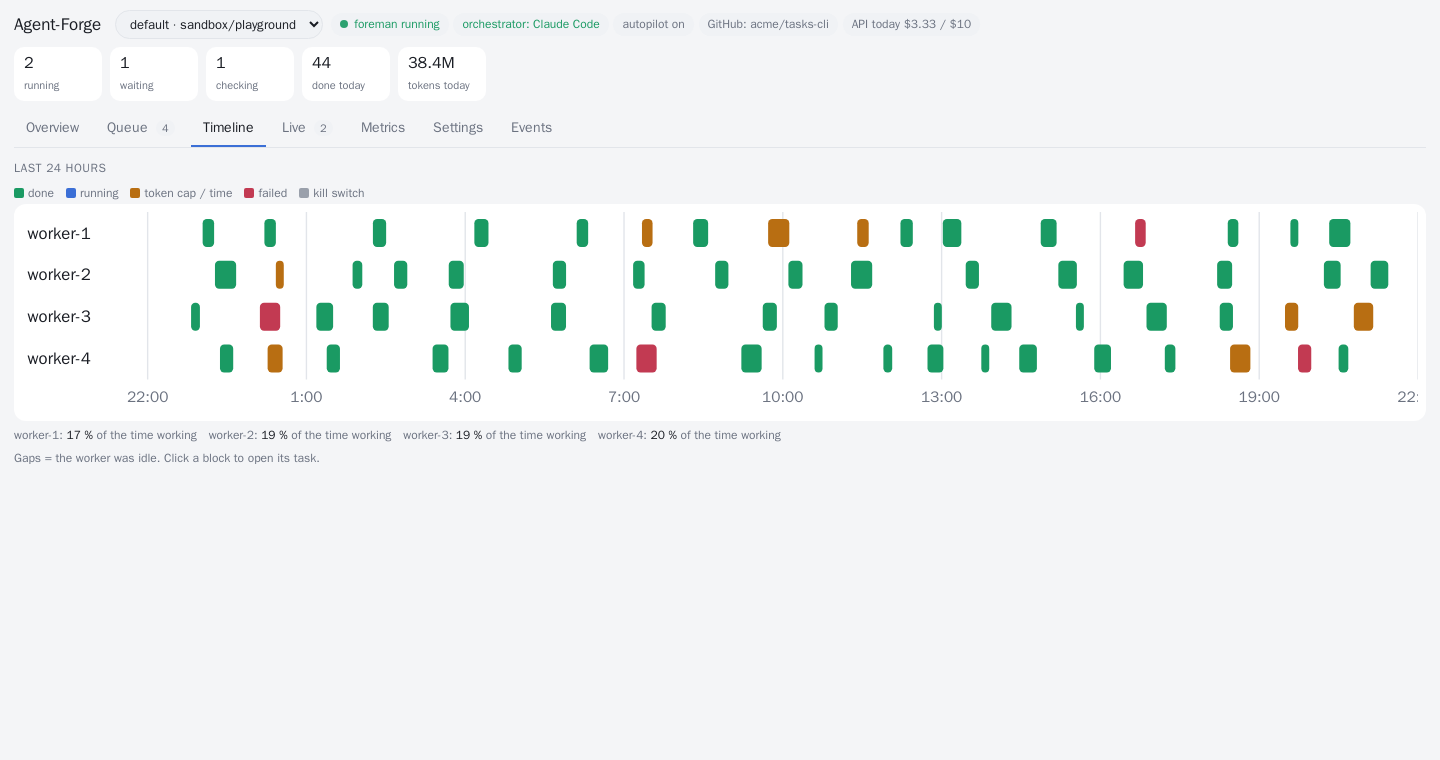
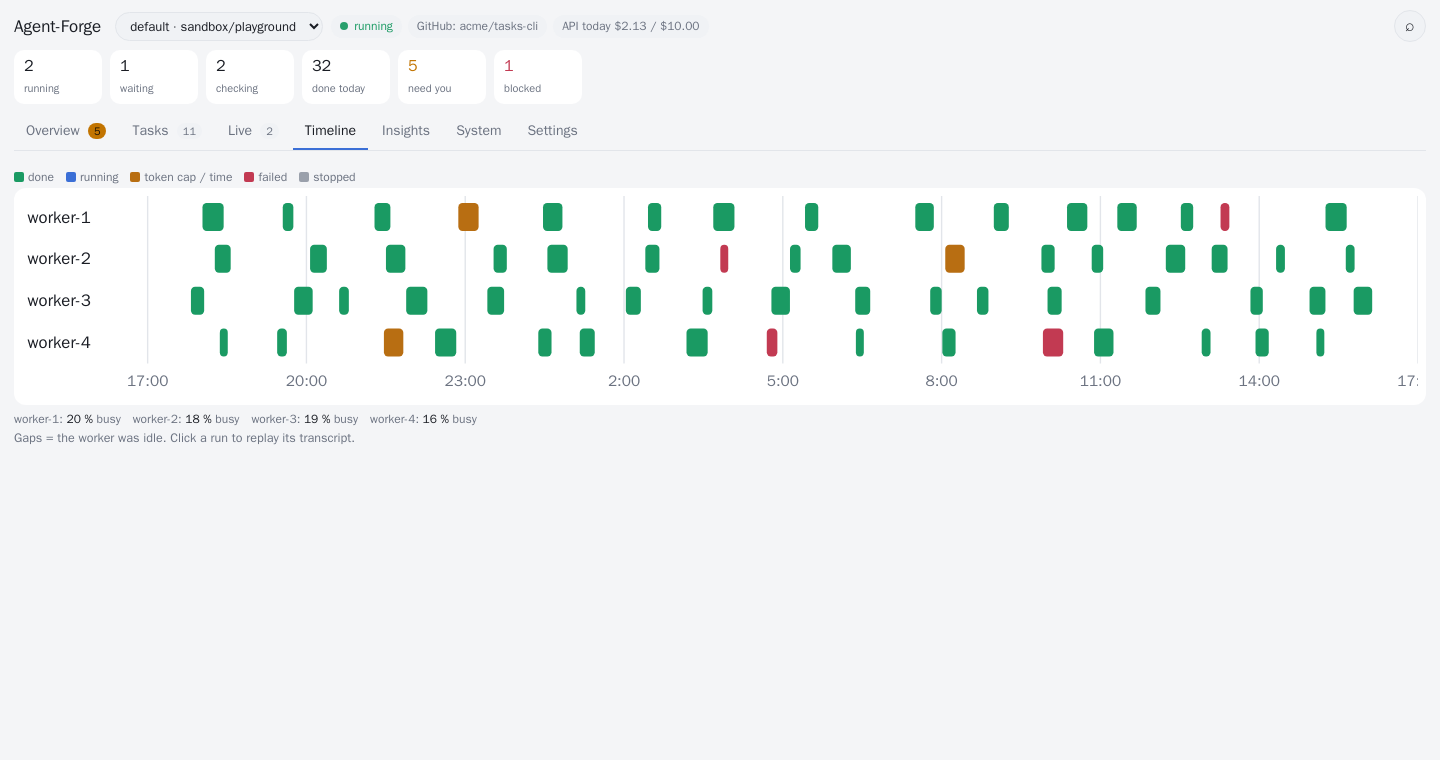
0.11.0: docs, roadmap, screenshots and the tour for the new dashboard
README (approvals, your own model server, the new screenshots), CHANGELOG 0.11.0, ROADMAP (what 0.11 did, what is open),
ARCHITECTURE (the owner in the loop, live push), RUNTIMES/EFFICIENCY/SETUP/PROVIDERS point at the new dashboard pages.
tools/screenshots.sh and tests/test_ui.sh share tools/fake-docker.

diff --git a/ROADMAP.md b/ROADMAP.md
@@ -3,68 +3,49 @@
 Where Agent-Forge is going, roughly in order. Ideas and votes welcome in the issues / discussions.
 
 ## Before 1.0 - proof
-- [ ] **Real-world validation, published.** One end-to-end run per runtime (Claude Code, Codex, Gemini CLI with real keys) and
-      per forge (GitHub, GitLab), with the numbers: success rate, cost and time per merged task.
+- [ ] **Real-world validation, published.** One end-to-end run per runtime (Claude Code, Codex, Gemini CLI, a local model with
+      real keys / a real server) and per forge (GitHub, GitLab), with the numbers: success rate, cost and time per merged task.
 - [ ] **A public repository built entirely by Agent-Forge** (the `examples/demo` tasks CLI), with its pull requests, reviews
       and reworks visible - the best demonstration of what the team does and does not do well.
 - [ ] **A benchmark.** A fixed set of goals (or a small SWE-bench-style subset) run regularly: first-pass rate, cost per merged
       task, against a single-agent baseline.
 - [ ] **Try it without a VM.** A Docker-only demo mode (`docker compose up`) with sample data and one worker, clearly marked as
       less isolated, for a five-minute look.
-- [ ] `bin/foreman` (2,900 lines) and `web/server.py` (2,100 lines, page included) split into modules and static files, so
-      contributions are easy.
+- [x] `bin/foreman` and `web/server.py` split into modules and static files (0.11: `bin/lib/foreman/`, `web/dashboard/`,
+      `web/static/`).
 
 ## Next - capabilities
 - [ ] **GitHub / GitLab issues as goals:** issues with a label become goals; the pull requests link back and close them.
-- [ ] **Local and OpenAI-compatible models** for workers (Ollama, vLLM, OpenRouter) through the Codex runtime's provider
-      settings - zero-cost runs for experiments.
-- [ ] More agent runtimes (Aider, OpenHands, Cursor CLI) behind the same runtime interface (`bin/lib/runtimes.py`).
-- [ ] Budgets per project and per worker, not only per install; a monthly cap.
-- [ ] Human-in-the-loop modes per project: approve the plan, approve risky tasks, approve merges (one click in the dashboard).
+- [x] **Local and OpenAI-compatible models** for workers (Ollama, vLLM, LM Studio, OpenRouter): runtimes `compat` (Codex CLI)
+      and `aider` (0.11).
+- [x] More agent runtimes behind the runtime interface: Aider (0.11). Not yet: Cursor CLI (its backend hosts are not
+      documented, so egress cannot be pinned) and OpenHands (brings its own sandbox) - contributions welcome, see
+      docs/RUNTIMES.md "Adding a runtime".
+- [x] Budgets per project and per worker, a monthly cap (0.11).
+- [x] Human-in-the-loop per project: approve the plan, risky tasks, merges (0.11, `APPROVE`).
 - [ ] Monorepos and multi-repository projects (a task may span two repositories).
-- [ ] Planner quality: learn task sizes from history, predict cost before dispatch, pick the cheapest model that passes.
+- [x] Planner quality: task sizes learned from history, an estimate before dispatch, `MODEL_ROUTING=auto` (0.11).
+- [ ] Cost-aware dispatch: use the estimate to keep a task that would not fit the remaining budget off an API worker.
+- [ ] Routing across runtimes, not only Antigravity models (e.g. a cheap local model for docs, Claude for risky code).
 
-## Dashboard ideas
-Collected while building it; roughly by value.
+## Dashboard
+Done in 0.11: live push (Server-Sent Events), why a worker is idle, run replays, goal pages, the project graph with the critical
+path and a done-by forecast, search, the "needs you" inbox, task and goal actions, backlog drag-and-drop and editing, the team's
+documents and role playbooks in the browser, an onboarding checklist, money and quota with forecasts, per-task cost, weekly
+trends, A/B verdicts with intervals and "adopt the winner", health checks with fix buttons, the egress report, disk cleanup.
 
-**See what is happening**
-- Live updates pushed by the server (Server-Sent Events) instead of polling every 2.5 s - instant and lighter.
-- "Why is this worker idle?" on every worker card: cooldown and its reason, no ready task, waiting for dependencies, file
-  conflicts with a running task.
-- Replay of finished runs (not only live ones): step through a transcript, filter tool calls, copy commands.
-- A goal page: its plan, tasks, merges and reworks on one timeline; time and money spent; all diffs combined; the evidence for
-  each acceptance criterion.
-- Project-wide dependency graph with the critical path highlighted; a forecast of when the backlog will be done at the current
-  throughput.
-- Search across goals, tasks, events and transcripts; a command palette (Ctrl+K): new goal, jump to task, kill switch.
-
-**Steer it**
-- Drag-and-drop backlog; edit a goal before it starts; priorities.
-- Per task: retry, cancel, "send back with my feedback" (a human review comment), reassign to another worker or model.
-- Per goal: pause, resume, cancel, raise priority.
-- Edit the vision, the team rules, the decisions and the lessons in the browser; view and adapt the role playbooks.
-- Onboarding checklist on first start (where the code lives → workers → notifications → first goal) with progress.
-
-**Money and quota**
-- Spend per day and week, per runtime, model and project; "the budget runs out at ..." and "quota resets in ..." forecasts.
-- Per-task cost breakdown; trends of first-pass rate and cost per merged task over time.
-- A/B results with confidence intervals and a "make this the default" button.
-
-**Operations**
-- `bin/doctor` in the browser, with a fix button where a fix is safe (restart a service, recreate the proxy, re-login a worker).
-- Egress view: allowed and denied hosts per worker, alarms with an acknowledge button.
-- Disk usage of runs and images; one-click cleanup.
-
-**Reach**
-- Installable app (PWA) with browser push notifications; a phone layout with a bottom tab bar.
+Still open, roughly by value:
+- Installable app (PWA) with browser push notifications, and a phone layout with a bottom tab bar.
+- A command palette (Ctrl+K): new goal, jump to a task, kill switch (search already opens with `/`).
+- Side-by-side diffs with syntax highlighting; a comment on a diff line goes back to the worker with the line.
 - Multi-user: sign-in, roles (viewer / operator / admin), an audit log of who changed what - a candidate for the commercial
   edition.
-- Accessibility pass (keyboard navigation, ARIA labels, contrast) and a light/dark switch.
+- Accessibility pass (keyboard navigation, ARIA labels, contrast) and a light/dark switch (now: the system's setting).
 - Translations, if the community wants them (strings in separate files, not in code).
 
 ## Maintainers: release checklist
 - [ ] `LICENSE`: the copyright holder's legal name.
 - [ ] New public repository; `tools/publish-snapshot "Agent-Forge x.y.z"` then `git push <public> public:main` (no private
       history, no private e-mail).
-- [ ] The `install` workflow green on GitHub (a fresh VM installs it end to end).
+- [ ] The `install` workflow green on GitHub (a fresh VM installs it end to end, incl. tests/test_ui.sh).
 - [ ] Screenshots current (`tools/screenshots.sh`), CHANGELOG and VERSION updated, a GitHub release with notes.

diff --git a/README.md b/README.md
@@ -32,7 +32,8 @@ assumes you are not watching:
 | **Verification** | you read the diff | full test suite in a **fresh offline container** + AI review + optional **mutation tests**, before any merge |
 | **Failures** | you notice | automatic rework with the gate output, crash recovery, a kill switch, nothing pushed from a suspicious run |
 | **Your repository** | the agent pushes from your machine | **pull requests on GitHub / GitLab** under your branch protection - the workers never see GitHub or a token |
-| **Cost** | whatever the agent spends | **USD caps per run and per day**, subscriptions first, measured quota / cost per merged task |
+| **Cost** | whatever the agent spends | **USD caps per run, day, month, project and worker**, subscriptions first, or **your own model server** |
+| **Control** | you drive every step | it drives; **you approve what you choose** (plans, risky tasks, merges) from one "needs you" list |
 | **Team** | coding agents | 19 roles incl. technical writer, translator, UX designer, product manager, data analyst |
 
 If you want a cockpit for agents you watch, those tools are great. Agent-Forge is for a queue you leave running.
@@ -63,6 +64,7 @@ About 20 minutes: Docker, the egress proxy, an internal Forgejo, the worker imag
 | **Codex CLI** | OpenAI API key | USD per day, token and tool-call caps per run |
 | **Gemini CLI** | Gemini API key | USD per day, token and tool-call caps per run |
 | **Antigravity** | a Google account with Antigravity | uses its subscription quota; one account per worker |
+| **Your model server** | nothing (Ollama, vLLM, LM Studio) or OpenRouter credits | Codex CLI or Aider against any OpenAI-compatible server; on your network, the worker may reach exactly that address and port |
 
 Mix them in one team. The key is entered once in the dashboard, stored on the server only (mode 0600) and reaches only the
 agent's environment; a worker can talk to its provider's API host and nothing else, and the gate refuses any branch that adds
@@ -78,12 +80,14 @@ a key or token. Details: [docs/RUNTIMES.md](docs/RUNTIMES.md).
 
 | | |
 |---|---|
-| ![Overview: goals with acceptance criteria, the team, the backlog and the planner's questions](docs/img/overview.png) | ![Live: each worker's transcript as it works](docs/img/live.png) |
-| **Overview** - goals with acceptance criteria, the team, backlog, questions | **Live** - what every worker is doing right now |
-| ![Timeline: 24 hours of runs per worker](docs/img/timeline.png) | ![Metrics: first-pass rate, quota and cost per merged task, A/B tests](docs/img/metrics.png) |
-| **Timeline** - 24 h of runs per worker, click to open the task | **Metrics** - first-pass rate, quota and cost per merged task |
-| ![Queue and a task with its spec, history and diff](docs/img/task.png) | ![Settings: kill switch, workers, models, budgets](docs/img/settings.png) |
-| **Task** - spec, history, review feedback, diff | **Settings** - kill switch, workers, models, budgets, notifications |
+| ![Overview: what needs you, the team and why idle workers are idle, goals, backlog](docs/img/overview.png) | ![A goal's page: tasks, events, cost, criteria](docs/img/goal.png) |
+| **Overview** - what needs you (approvals, questions, blocked tasks), the team, goals, backlog | **Goal page** - its tasks, everything that happened, cost, acceptance criteria |
+| ![Live transcripts of the workers](docs/img/live.png) | ![Replay of a finished run](docs/img/replay.png) |
+| **Live** - what every worker is doing right now | **Replay** - any finished run, filtered, searchable, commands to copy |
+| ![Task sheet: merge or send back, cost, runs, diff](docs/img/task.png) | ![Dependency graph with the critical path](docs/img/graph.png) |
+| **Task** - only the actions that fit its state, its runs and cost, the diff | **Graph** - the open work and what it waits for; the critical path |
+| ![Money and quota](docs/img/money.png) | ![Experiments: A/B verdicts](docs/img/experiments.png) |
+| **Money & quota** - spend per day, caps, when the budget runs out | **Experiments** - A/B results with 95 % intervals, adopt the winner |
 
 (Invented demo data - `tools/screenshots.sh` regenerates them.)
 
@@ -116,6 +120,8 @@ Details: [ARCHITECTURE.md](ARCHITECTURE.md) · [SECURITY.md](SECURITY.md) · [do
 - **Spends tokens on work, not on reading.** Each task carries a context pack - its files and the interfaces it uses, from a
   code map generated without any LLM. Measured: [docs/EFFICIENCY.md](docs/EFFICIENCY.md).
 - **Learns.** A review that sends work back may record one general lesson; lessons go into every later plan, review and task.
+  What merged tasks really cost here (by size and role) goes into every plan, each open task gets an estimate, and with
+  `MODEL_ROUTING=auto` each role gets the cheapest worker model that has proven itself in this project.
 - **Closes goals on evidence.** Each goal gets observable acceptance criteria, checked one by one before it is closed.
 - **Works with your stack.** `TEST_CMD` and `GATE_IMAGE` per project: pytest by default, `npm test`, `go test ./...`, ...
 - **Survives crashes and reboots,** and does not blame the worker for Forgejo, Docker or provider outages.
@@ -133,6 +139,8 @@ bin/foreman goal "Add a CSV export to the expenses module, with tests"
 bin/foreman project "Build the app described in docs/vision.md"   # → a roadmap of goals in the backlog
 bin/foreman status | backlog | questions
 echo "Use PostgreSQL" | bin/foreman answer 1                      # becomes a binding decision for later plans
+bin/foreman goal <goal-id> approve | pause | prioritize | cancel   # APPROVE=plan,risky,merge makes the team wait for you
+echo "Use the existing parser" | bin/foreman task <task-id> feedback -   # send its work back with your words
 bin/killswitch on [--hard] [--all]                                # stop this project (or every project) now
 bin/doctor
 ```

diff --git a/ARCHITECTURE.md b/ARCHITECTURE.md
@@ -122,11 +122,20 @@ The code is the package `bin/lib/foreman/`, one module per concern (`bin/foreman
 | `loop` | the tick: apply finished steps, advance tasks and goals, dispatch, feed idle workers |
 | `planning`, `merge`, `maintenance` | the steps that run in the thread pool (`jobs`): plan / split / autopilot / roadmap; rebase, gate, review, merge; LLM-free checks of main |
 | `llm`, `prompts`, `knowledge` | orchestrator calls and providers; the prompts; roles, lessons, decisions |
-| `pool`, `repo` | workers, runtimes, quota and cooldowns; the clone of main, code map, context pack, variants |
+| `pool`, `repo`, `stats` | workers, runtimes, quota and cooldowns; the clone of main, code map, context pack, variants; what tasks cost here, estimates, model routing, confidence intervals |
 | `report`, `settings`, `owner`, `cli` | read-only views (dashboard JSON), validated settings, owner questions, the command line |
 | `selftest` | `bin/foreman --selftest` |
 
 Modules import each other in one direction only (the order of the table, bottom to top), so there are no import cycles.
+
+### The owner in the loop
+`APPROVE` (per project) puts a stop where the owner wants one: a planned goal's tasks wait in status `approval` (`awaiting:
+plan`) until the goal is approved or sent back with a note (re-planned); a risky task waits before dispatch (`awaiting: risky`);
+a branch that passed the gate and the review waits before the merge (`awaiting: merge`) - approved, it becomes `merge-ready` and
+is merged without a new review unless main moved (then it is rebased, gated and reviewed again, and merged right after).
+Owner actions (`bin/foreman task|goal <id> …`, the dashboard) change task and goal files under `locked()`; a step that was
+already running when the owner cancelled its task drops its result (`live_task()`). A running task is stopped through its
+supervisor (`runs/<run>/stop`). Owner notes go into the plan prompt or the task's spec.
 
 ### Roles (roles/) and prompts (prompts/)
 Each role file is a playbook - mission, what it owns, how it works, what it never does, definition of done. The planner sees the
@@ -136,10 +145,16 @@ catalogue; the worker gets its role's full playbook in the task; the reviewer ge
 Standard library only. `web/server.py` is the HTTP side (access control, routes); `web/dashboard/backend.py` reaches Agent-Forge
 (locally, or over ssh) and runs the long write actions as jobs; `web/dashboard/live.py` tails the running transcripts; the page is
 plain static files in `web/static/` (no build step; scripts only from the server itself - the CSP allows nothing inline). It reads
-`bin/foreman status --dashboard`, run logs and `agy /usage`, and serves the page on 127.0.0.1. Write actions: queue goals / roadmaps, reorder the backlog, answer the planner's questions, stop/continue
-a project (or all), edit settings (a fixed list of keys, validated by `bin/foreman settings apply`; the loop reloads its config on
-the next tick), add a worker (`bin/worker-add`) and run its agy login in a browser terminal, create a project. Owner text reaches
-`bin/foreman` on stdin. Access control (Host check, CSRF header, optional token) - see SECURITY.md.
+`bin/foreman status --dashboard`, run logs and `agy /usage`, and serves the page on 127.0.0.1. Open pages get updates pushed
+(`/api/stream`, Server-Sent Events: the foreman state as deltas of its top-level keys, new transcript lines only); details
+(a task with its runs, a goal's events, a run's transcript, search, money, health) are fetched when a view opens.
+
+Write actions: queue goals / roadmaps, edit and reorder the backlog, approve, answer the planner's questions, act on tasks and
+goals, stop/continue a project (or all), edit settings (a fixed list of keys, validated by `bin/foreman settings apply`; the loop
+reloads its config on the next tick) and the team's documents (`bin/foreman doc`), add a worker (`bin/worker-add`) and run its
+agy login in a browser terminal, create a project, run a whitelisted fix (`bin/doctor --json` names them), acknowledge egress
+alarms, clean up disk space. Owner text reaches `bin/foreman` on stdin, never a command line. Access control (Host check, CSRF
+header, optional token, CSP without inline scripts) - see SECURITY.md.
 
 ## State on disk
 

diff --git a/docs/RUNTIMES.md b/docs/RUNTIMES.md
@@ -14,7 +14,7 @@ Each worker is one container running one agent CLI. You can mix them in one team
 The dashboard does the same: Settings → "+ Add worker" → pick the runtime; for an API runtime it asks for the key once.
 
 ## Your own model server: Ollama, vLLM, LM Studio, OpenRouter
-Set `COMPAT_BASE_URL` (Settings → API workers, or `etc/limits.conf`) to the server's OpenAI-compatible base URL, then add workers
+Set `COMPAT_BASE_URL` (Settings → Workers, or `etc/limits.conf`) to the server's OpenAI-compatible base URL, then add workers
 with the runtime `compat` or `aider`:
 
 | server | `COMPAT_BASE_URL` | runtime |
@@ -57,14 +57,14 @@ itself can read its own environment - that is unavoidable for any agent that cal
   budgets), and rotate it if you ever suspect it leaked.
 
 ## Money
-API runtimes cost real money, so they have hard limits (`etc/limits.conf`, also in Settings → API workers):
+API runtimes cost real money, so they have hard limits (`etc/limits.conf`, also in Settings → Money):
 
 | setting | default | what it does |
 |---|---|---|
 | `API_RUN_BUDGET_USD` | 2.0 | cap per run. Claude Code enforces it itself (`--max-budget-usd`); codex / gemini runs are stopped by `RUN_TOKEN_CAP` and `RUN_MAX_TOOL_CALLS` |
 | `API_DAILY_BUDGET_USD` | 10.0 | cap per day (UTC) for all projects; `bin/dispatch` refuses API runs once spent + one run's cap would exceed it |
 | `API_MONTHLY_BUDGET_USD` | 0 (none) | cap per calendar month for all projects |
-| `PROJECT_DAILY_BUDGET_USD`, `PROJECT_MONTHLY_BUDGET_USD` | 0 (none) | caps for one project (its own config / Settings → API workers) |
+| `PROJECT_DAILY_BUDGET_USD`, `PROJECT_MONTHLY_BUDGET_USD` | 0 (none) | caps for one project (its own config / Settings → Money) |
 | `WORKER_DAILY_BUDGET_USD` | empty | caps per worker per day, e.g. `worker-5=3,worker-6=1.5` |
 | `RUN_MAX_TOOL_CALLS` | 250 | any runtime: a run that makes more tool calls is stopped like at the token cap (its work is saved) |
 | `PRICE_CODEX`, `PRICE_GEMINI`, `PRICE_COMPAT` | see file | USD per million tokens (input, cached input, output) for the cost estimate - those CLIs report tokens, not money. Set them to your model's prices |
@@ -76,8 +76,8 @@ the subscriptions are spent first; `always` uses API workers first. A run that s
 revoked, no credit) re-queues its task without counting an attempt and pauses that worker for an hour; you get an `auth`
 notification. Rate limits and quota stops are handled like an Antigravity quota stop.
 
-Spend shows up in the dashboard (pill "API today", Settings → API workers) and in Metrics (cost per merged task by runtime and
-model).
+Spend shows up in the dashboard: the pill "API today", Insights → Money & quota (per day, runtime, project and model, the caps,
+when today's budget runs out) and Insights → Experiments (cost per merged task by runtime and model).
 
 ## Models
 `WORKER_MODEL_CLAUDE` (default `sonnet`), `WORKER_MODEL_CODEX`, `WORKER_MODEL_GEMINI` (empty = the CLI's default),

diff --git a/CHANGELOG.md b/CHANGELOG.md
@@ -1,5 +1,35 @@
 # Changelog
 
+## 0.11.0 - 2026-10-08
+**You stay in the loop when you want to.** `APPROVE=plan,risky,merge` per project: a goal's plan, each risky task and each
+reviewed branch can wait for your OK. Everything that waits for you is in one place - Overview → Needs you - with one or two
+buttons each (approve, send back with your words, retry, cancel). From the dashboard or `bin/foreman task|goal <id> …`: cancel
+a task (a running one is stopped), retry, send its work back with your feedback, assign it to a worker or a model; pause,
+resume, prioritize, edit, re-plan or cancel a goal.
+
+**Your own model server.** Two new worker runtimes for any OpenAI-compatible server - Ollama, vLLM, LM Studio, OpenRouter:
+`compat` (Codex CLI, Responses API) and `aider` (Aider 0.86, chat completions). A server on your network gets an egress
+exception for exactly its address and port. The runtime test now proves for all five API runtimes that they contact nothing
+but their API (it caught Aider downloading a price table - fixed).
+
+**Budgets** per calendar month, per project (day / month) and per worker (day), next to the per-run and per-day caps; running
+API runs count at their full cap.
+
+**The planner learns from this project.** What merged tasks really cost by size and role goes into every plan; each open task
+gets an estimate; `MODEL_ROUTING=auto` gives each role the cheapest worker model that has proven itself here; A/B results come
+with 95 % intervals and a verdict.
+
+**Dashboard.** Pushed live updates (Server-Sent Events; polling as a fallback). Why each idle worker is idle. A page per goal
+(plan, tasks, events in order, cost, criteria, combined diff), a task sheet with its runs and costs, the replay of any finished
+run, a project-wide dependency graph with the critical path, backlog drag-and-drop with a done-by forecast, search across goals,
+tasks, events and transcripts. Insights: weekly trends, money and quota (spend per day, caps, when today's budget runs out,
+quota burn). System: health checks with fix buttons, egress report with acknowledge, disk usage and cleanup. Settings in six
+pages; the vision, team rules, decisions, lessons and role playbooks are edited in the browser (a role per project).
+
+**Code.** `bin/foreman` is now the package `bin/lib/foreman/` (17 modules) and the dashboard is `web/server.py` +
+`web/dashboard/` + static files (`web/static/`, no inline scripts, a stricter CSP). `bin/doctor --json`; `tests/test_ui.sh`
+tests the page in a real DOM.
+
 ## 0.10.0 - 2026-10-08
 **Workers with API keys.** Besides Antigravity subscriptions, a worker can now run Claude Code, Codex or Gemini CLI with an API
 key (`bin/worker-add N --runtime claude|codex|gemini`, or the dashboard). Keys stay in the secrets directory and reach only the

diff --git a/docs/EFFICIENCY.md b/docs/EFFICIENCY.md
@@ -2,7 +2,7 @@
 
 With subscription accounts the limit is not time but quota. On the reference install (4 Antigravity accounts, ~400 runs)
 the team used up a week's quota in about two and a half days, and then waited for the reset. So the measure that matters is
-**quota per merged task**, and the dashboard's Metrics tab shows it.
+**quota per merged task**, and the dashboard shows it (Insights → Experiments).
 
 What the data said before these features:
 
@@ -26,7 +26,7 @@ The foreman appends a section to each task, built from main without any LLM (`bi
 - a one-line map of every other module (path, size, purpose).
 
 It is capped (`CONTEXT_PACK_CHARS`), because it is part of every later turn too. `ab` gives it to half the tasks (stable per
-task) so the Metrics tab can compare quota per merged task and tool calls per run with and without it.
+task) so the dashboard (Insights → Experiments) can compare quota per merged task and tool calls per run with and without it.
 
 ## Code documentation that cannot go stale
 The code map is generated from the code on every main commit, so it is always current - unlike hand-written docs, which drift
@@ -49,7 +49,7 @@ The planner is told to keep tasks to at most `MAX_TASK_FILES` files; a task that
 before anyone works on it, rather than after it hit the token cap twice.
 
 ## Model routing and A/B tests (`WORKER_MODEL_LIGHT`, `AB_MODEL`, `AB_SHARE`)
-Light roles can use a cheaper model; `AB_SHARE` % of routine tasks can run on another model. The Metrics tab compares models by
+Light roles can use a cheaper model; `AB_SHARE` % of routine tasks can run on another model. Insights → Experiments compares models by
 quota per run, quota per merged task, first-pass approvals and token-cap rate. Whether a lower-thinking model is really cheaper
 per *merged* task is exactly what this measures - a cheap run that needs a rework is not cheap.
 

diff --git a/docs/SETUP.md b/docs/SETUP.md
@@ -43,7 +43,7 @@ Passwords and tokens are written to `~/.config/sandbox/secrets/` (0600). Forgejo
 (`ssh -L 3000:127.0.0.1:3000 <vm>` from your laptop; log in as `forge-admin` with the password from the secrets directory).
 
 ## 4. Workers
-Easiest: dashboard → Settings → "+ Add worker" → pick Antigravity (it opens a terminal for the login: open the link with that
+Easiest: dashboard → Settings → Workers → "+ Add a worker" → pick Antigravity (it opens a terminal for the login: open the link with that
 worker's Google account, paste the code) or an API runtime (it asks for the key once). API workers by hand:
 ```bash
 printf '%s' "$ANTHROPIC_API_KEY" | bin/secret-set anthropic.key     # openai.key / gemini.key

diff --git a/examples/demo/README.md b/examples/demo/README.md
@@ -8,7 +8,7 @@ Or start by hand with goals like these (dashboard → Overview → New goal, or 
 3. `Write docs/USAGE.md: a short user guide with an example session.`
 
 Goal 1 is planned into parallel tasks (store, CLI, tests); goals 2 and 3 can run at the same time once 1 is merged. Watch the
-Timeline and Queue tabs, and the dependency graph of a goal (Overview → a goal → dependency graph).
+Timeline and Tasks tabs (Board, and the Graph with the critical path), and a goal's page (click a goal).
 
 Want a project in another language? Set `TEST_CMD` and `GATE_IMAGE` in Settings → Project (e.g. `npm test --silent` and an image
 with Node and your dependencies) and write the vision for it.

diff --git a/docs/PROVIDERS.md b/docs/PROVIDERS.md
@@ -8,7 +8,7 @@ PLAN_PROVIDERS=claude-cli,agy-claude,agy-gemini
 REVIEW_PROVIDERS=agy-claude,claude-cli
 ```
 Gemini is not a default reviewer: in practice 64 % of its review calls produced no usable verdict. Antigravity calls now pass
-`--json-schema`, which may change that - measure it in the dashboard's Metrics tab before adding `agy-gemini` back.
+`--json-schema`, which may change that - measure it in the dashboard (Insights → Team, orchestrator calls) before adding `agy-gemini` back.
 
 ## Free with subscriptions you already have
 
